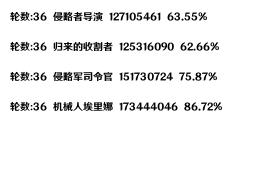
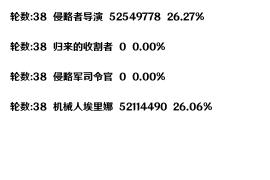
修复出刀数量错误问题

diff --git a/main.py b/main.py
@@ -17,22 +17,22 @@ loop = asyncio.get_event_loop()
 # 填写完cookies之后就能在这操作了，想要运行下面功能就把哪行解开运行即可
 
 # 日报
-try:
-    print(loop.run_until_complete(data_format.today_report("114514")))
-except Exception as e:
-    print(e)
+# try:
+#     print(loop.run_until_complete(data_format.today_report("114514")))
+# except Exception as e:
+#     print(e)
 
 # 总伤
-try:
-    print(loop.run_until_complete(data_format.all_report("114514")))
-except Exception as e:
-    print(e)
+# try:
+#     print(loop.run_until_complete(data_format.all_report("114514")))
+# except Exception as e:
+#     print(e)
 
 # 进度
-try:
-    print(loop.run_until_complete(data_format.get_rate("114514")))
-except Exception as e:
-    print(e)
+# try:
+#     print(loop.run_until_complete(data_format.get_rate("114514")))
+# except Exception as e:
+#     print(e)
 
 # 出刀
 try:

diff --git a/payload2/get_image.py b/payload2/get_image.py
@@ -2,7 +2,7 @@
 Author: 七画一只妖 1157529280@qq.com
 Date: 2023-10-07 10:53:46
 LastEditors: 七画一只妖 1157529280@qq.com
-LastEditTime: 2023-12-01 21:38:46
+LastEditTime: 2023-12-08 09:16:13
 FilePath: \060坎公骑冠剑会战工具\payload2\test2.py
 Description: 这是默认设置,请设置`customMade`, 打开koroFileHeader查看配置 进行设置: https://github.com/OBKoro1/koro1FileHeader/wiki/%E9%85%8D%E7%BD%AE
 '''
@@ -251,7 +251,7 @@ def get_knife_image(data: dict, user_id: str, date_list:list) -> str:
         y_centered = margin + row * cell_height + \
             (cell_height - text_height) // 2
         draw.text((x_centered, y_centered), name, fill='black', font=font)
-        index = 1
+        index = 0
         for col, number in enumerate(range(1, table_width), start=1):
             try:
                 date = date_list[len(date_list) - index - 1]
